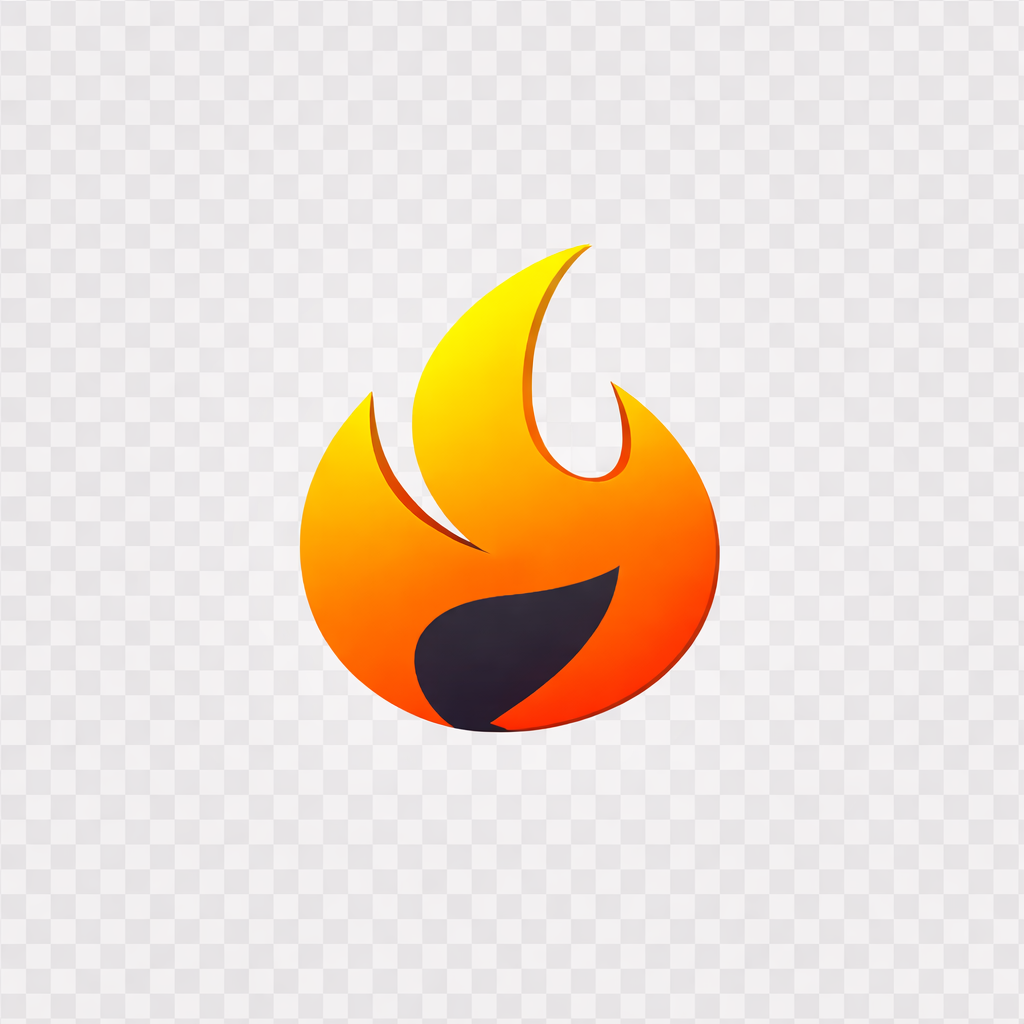
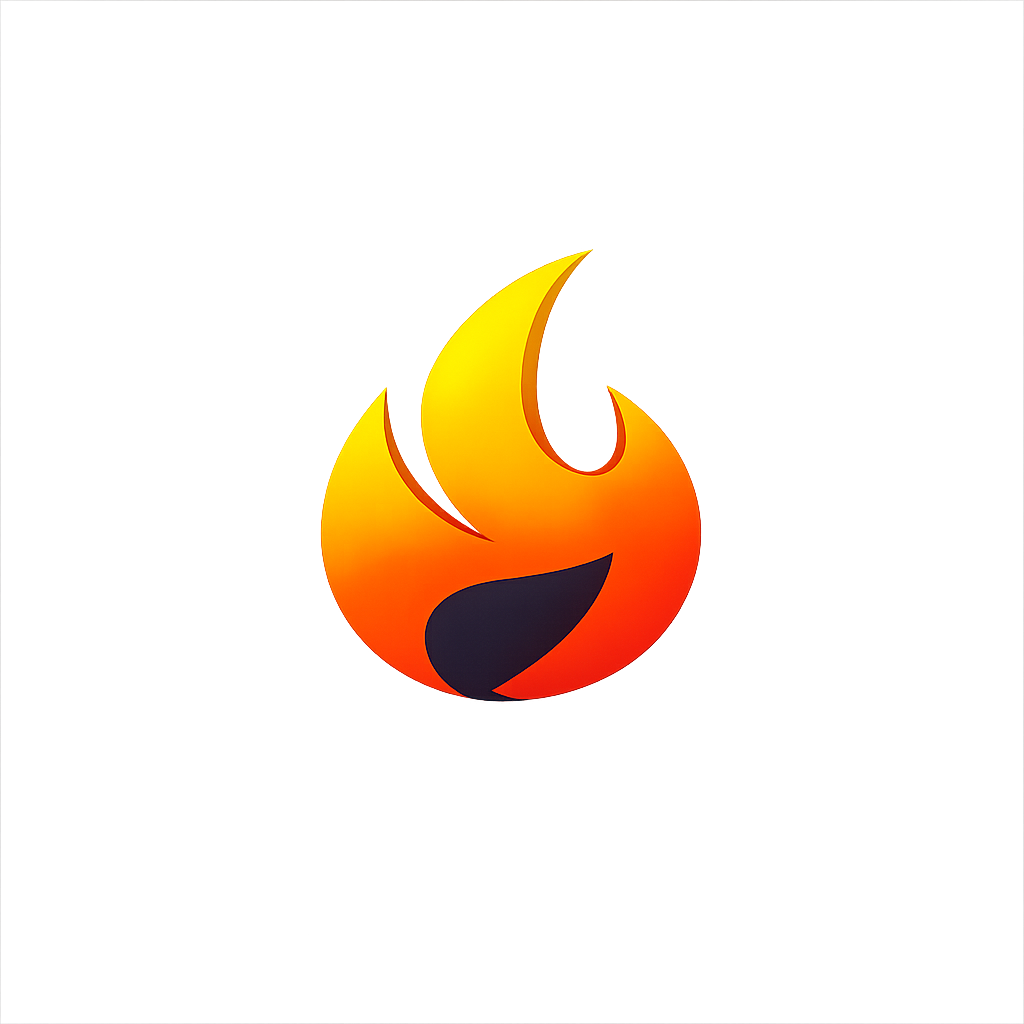
Update symbol and reduce hero section padding
- Updated symbol with latest version
- Reduced hero vertical padding by ~50% (py-16/24 → py-8/12)

diff --git a/src/routes/+page.svelte b/src/routes/+page.svelte
@@ -10,7 +10,7 @@
 
 <!-- Hero Section -->
 <section class="bg-gradient-to-br from-secondary via-secondary to-gray-900 text-white overflow-hidden">
-	<div class="container-wide py-16 md:py-24">
+	<div class="container-wide py-8 md:py-12">
 		<div class="grid lg:grid-cols-2 gap-12 items-center">
 			<!-- Left: Content -->
 			<div>
